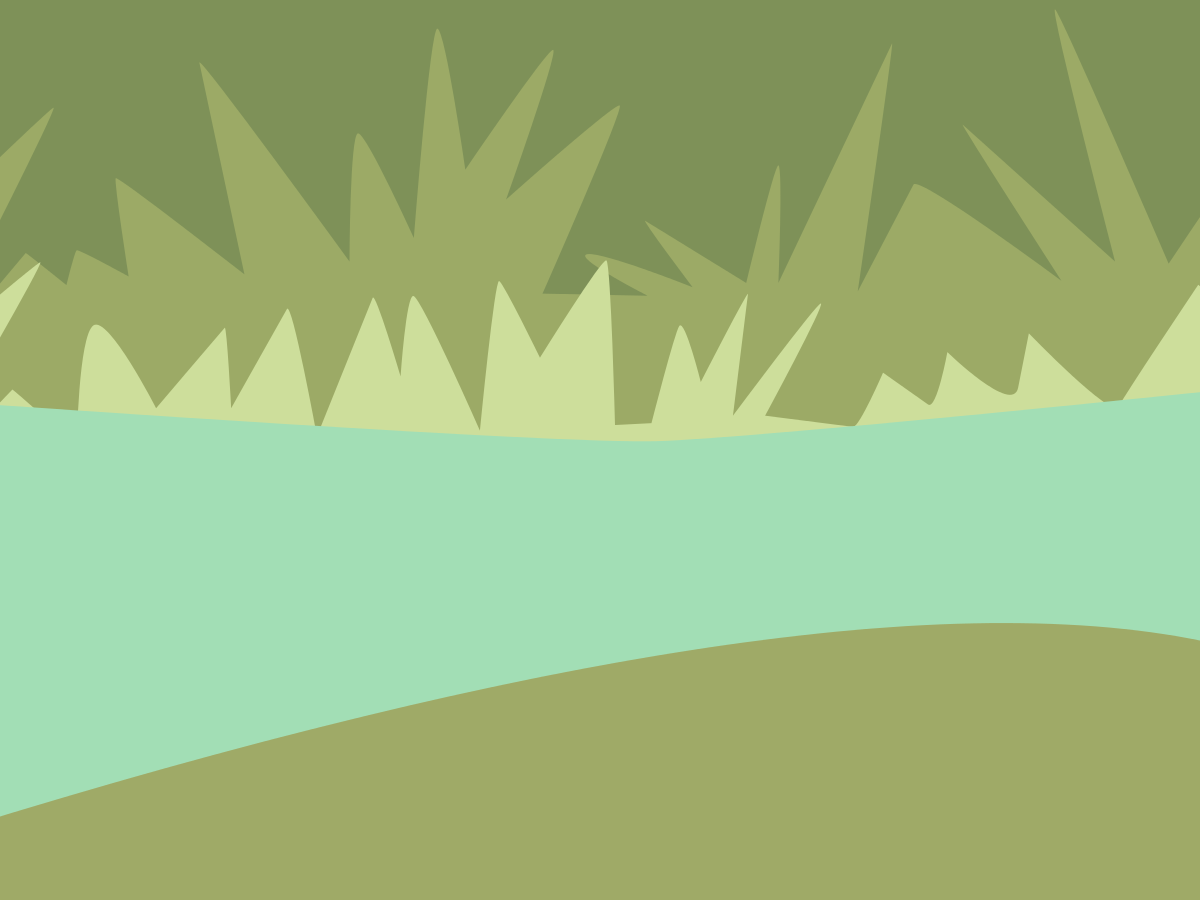
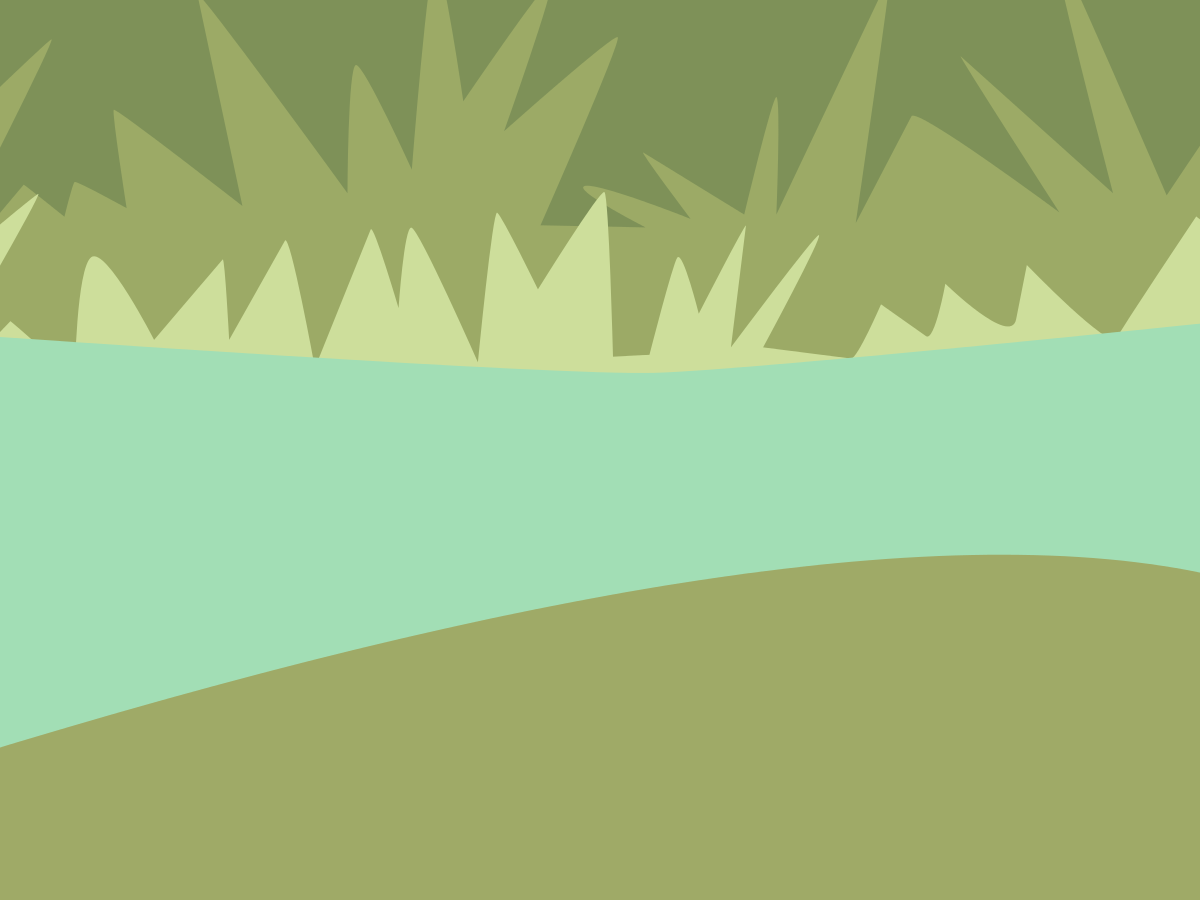
increase title size, move bg water up, add plant to home

Changed region(s): [[0.0, 0.0, 1.0, 0.4978], [0.0, 0.5911, 1.0, 0.9022]]

diff --git a/angle_gators.py b/angle_gators.py
@@ -56,7 +56,7 @@ class AngleGators:
             if self.currentState == GameState.Menu:
                 menu_items = (FontButton('Start'), FontButton('How to Play'),
                               FontButton('Credits'), FontButton('Quit'))
-                gm = MenuScene(screen, menu_items, 'AngleGators', 'Assets/mainbackground.png')
+                gm = MenuScene(screen, menu_items, 'AngleGators', 'Assets/mainbackground_tail.png')
                 response = gm.run()
                 if response == 'Start':
                     self.currentState = GameState.Playing

diff --git a/Scene.py b/Scene.py
@@ -75,7 +75,7 @@ class MenuScene(Scene):
         self.font = pygame.font.SysFont(font, font_size)
         self.font_color = font_color
 
-        self.title = FontItem(title, 60)
+        self.title = FontItem(title, 120)
 
         #self.title_label = pygame.font.Font.render(self.title, 1, self.font_color)
         self.title_pos_x = (self.scr_width / 2) - (self.title.width / 2)
